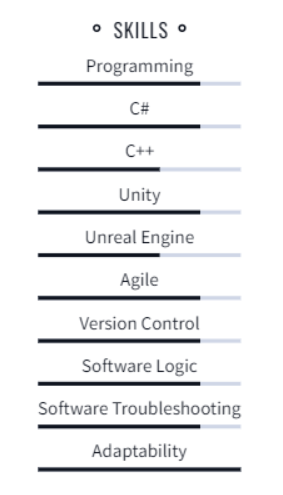
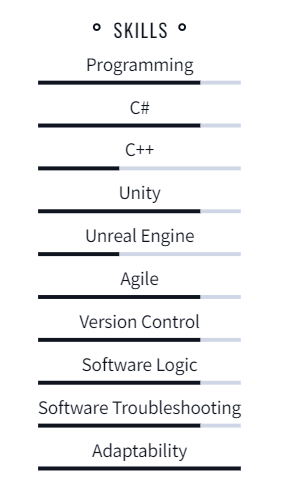
added learning unreal and C++ Page, updated skillset image
Updated skillset image to better recognise my skillset -> Lowered c++/Unreal scores to be more accurate

diff --git a/LearningUnrealAndC++.html b/LearningUnrealAndC++.html
@@ -18,7 +18,7 @@
 				<section id="header">
 
 					<!-- Logo -->
-						<h1><a href="index.html">Boids Simulated Ecosystem</a></h1>
+						<h1><a href="LearningUnrealAndC++.html">Learning Unreal Engine and C++</a></h1>
 
 					<!-- Nav -->
 				<nav id="nav">
@@ -59,22 +59,14 @@
 
 						<!-- Content -->
 							<article class="box post">
-								<a target="_blank" href="https://glideaway-games.itch.io/freeflight/" target="_blank" class="image featured"><img src="" alt="" /></a>
+								<a target="_blank" href="" target="_blank" class="image featured"><img src="" alt="" /></a>
 								<header>
-									<h2>Overview</h2>
+									<h2>Page Currently Under Development!</h2>
 								</header>
 								<p>
-									This project was my second year solo project, in which I decided to develop an ecosystem simulation that uses boid agents and behaviours. Boids 
-									is an artificial intelligence behaviour that simulates the flocking behaviour of birds. The agents behave how boids typically behave, however 
-									they have other behaviours worked into them, for example the need to eat, thirst, need to mate, and more. The main intent of this project was 
-									to see how well boid agents could work and function within an ecosystem, provided the behaviours had been added for them to do this.
+									I am currently learning how to better develop games using Unreal Engine 5 and c++. This page will show my progressions of learning these.
 								</p>
-								<p>
-									The assignment for this project was to develop any type of artificial intelligence we wanted, in which I chose to take the AI behaviour of boids
-									and add more complex behaviours to them. This meant creating numerous behaviour scripts, a main behaviour handler, and more, alongside ensuring to
-									improve the efficiency of the boid agents, since boids themselves can be very taxing on a computer's resources. My main priority was creating the 
-									behaviours so that the boids could reproduce, eat to survive, repopulate, and continue to thrive in a given environment. 
-								</p>
+
 								<section>
 									<header>
 										<h3>Example Systems + Scripts</h3>
@@ -83,104 +75,15 @@
 									<br />
 									<br />
 
-									<button type="button" class="collapsible">Main Flock Handler</button>
+									<button type="button" class="collapsible">Holder</button>
 									<div class="content">
 										<p>
-											The main script, Flock.cs, handled spawning in new flock agents and triggering the move in all boids in the flock.											
+											Holding.									
 										</p>
-										<p>
-											SpawnNewAgent is a method in which instantiates a new boid agent, ensuring its attributes and behaviours and set correctly.
-											It begins by instantiating a new agent using the agent prefab randomly within a sphere, making sure the agent knows which flock it belongs to.
-											The agent's attributes are then set using mother and father attribute sets. This is followed by adding this agent to the agents list so we can
-											continue to monitor and update it. 
-										</p>
-										<img src="images/BoidSimulationScripts/SpawnBoid.PNG" alt="" />
-
-										<p>
-											The UpdateFlock method is responsible for updating the move of every agent in the agents list, ensuring this move is kept within the max speed 
-											constraints. To calulate this move, the boid agents get all objects within a given radius and react to them in different ways depending on
-											their different behaviours and their weights.
-										</p>
-										<img src="images/BoidSimulationScripts/UpdateFlock.PNG" alt="" />
 
 									</div>
 									<br />
 									<br />
-
-									<button type="button" class="collapsible">Original Boid Behaviours</button>
-									<div class="content">
-										<p>
-											Here are the original behaviours that typical boid agents possess. This includes: allignment, cohesion, avoidance, and a composite behaviour 
-											to combine these different behaviours into one.
-										</p>
-										<p>
-											Below is the composite behaviour. This takes a boid agent and loops through each behaviour in a given behaviour list and calculates a move 
-											direction based on these and their weights, ensuring to return the move direction to where it was called. 
-										</p>
-										<img src="images/BoidSimulationScripts/CompositeBehaviour.PNG" alt="" />
-
-										<p>
-											Below is the allignment behaviour. This behaviour makes a given agent allign towards the average direction of all nearby agents, ignoring 
-											all other objects that aren't boid agents. This alignment move is then returned to where it was called.
-										</p>
-
-										<img src="images/BoidSimulationScripts/AllignmentBehaviour.PNG" alt="" />
-
-										<p>
-											Below is the cohesion behaviour. This behaviour is responsible for making the boids steer towards all nearby boids, ignoring objects that
-											aren't boid agents. The behaviour calculates the average move position of all nearby agents, returning this cohesion move value.
-										</p>
-
-										<img src="images/BoidSimulationScripts/CohesionBehaviour.PNG" alt="" />
-
-										<p>
-											Below is the avoidance behaviour. This behaviour makes it so the agent moves away from all nearby objects when getting too close. It gets 
-											the nearby object context list and gets the average direction away from all of these objects to avoid them, returning this avoidance 
-											movement to where it was called.
-										</p>
-
-										<img src="images/BoidSimulationScripts/AvoidanceBehaviour.PNG" alt="" />
-
-										<p>
-											This concludes the original boid behaviours and how I have implemented them into my own agents.
-										</p>
-									</div>
-									<br />
-									<br />
-
-									<button type="button" class="collapsible">New Boid Behaviours</button>
-									<div class="content">
-										<p>
-											To create a environmental simulation for the boids, I had to ensure I was simulating the need for a food source, the need to mate, and other
-											natural needs and requirements.
-										</p>
-										<h5>Find Food Behaviour</h5>
-										<p>
-											Below is the behaviour responsible for finding food and returning the direction towards it. Firstly, it gets the nearest food source through
-											calling the method GetNearestFoodSource, which is a simple method which calculates which food source within view distance is closest to this 
-											agent, following this by returning the direction towards this food source or returning no direction due to no nearby food sources. This behaviour
-											was vital in this system since without food the agents would just die out due to hunger. 
-										</p>
-										<img src="images/BoidSimulationScripts/FindFoodBehaviour.PNG" alt="" />
-
-										<h5>Find Mate Behaviour</h5>
-										<p>
-											Below is the first half of the find mate behaviour. This behaviour is responsible for finding the nearest best mate and attempting to mate with
-											them, returning the direction towards them if too far. Firstly, the agent gets the context list and searches for the mate with the highest
-											attractiveness attribute. This was a vital part in the system, since they should prefer mates with better attributes and higher chances to live
-											than those that are more likely to die quickly. In this first half, we get this best mate and keep them as context. 
-										</p>
-										<img src="images/BoidSimulationScripts/FindMateBehaviour.PNG" alt="" />
-										<p>
-											In the second half, the script first checks whether the agent is close enough to attempt to mate with the other agent. Then it runs through a random
-											number generator to see if the mating was successful or not, in which if it was, a new agent will be spawned with these two agents as the parents and 
-											their need to mate weight is reset, otherwise their need to mate would be lowered by a multiplier. And finally, the direction towards this best mate 
-											would be returned the where this was called.
-										</p>
-										<img src="images/BoidSimulationScripts/GoToMateBehaviour.PNG" alt="" />
-
-									</div>
-
 								</section>
 
 								<section>
@@ -188,9 +91,7 @@
 										<h3>What I learnt from this project</h3>
 									</header>
 									<p>
-										This project and module helped me develop my understanding of the different ways artificial intelligence can be created for different jobs, and the industry-standard
-										practices for implementing different AI behaviours and features. From my work specifically, I learnt how to take a basic AI and implement new, more complex, 
-										behaviours, whilst also ensuring the system makes sense and is efficient enough to run effectively as possible. 
+										
 									</p>
 								</section>
 

diff --git a/Skillset.html b/Skillset.html
@@ -31,6 +31,7 @@
 								<li><a href="BoidsSimulatedEcosystem.html">Boids Simulated Ecosystem</a></li>
 								<li><a href="ProjectStealth.html">Project Stealth</a></li>
 								<li><a href="CustomController.html">Custom Controller Fishing Game</a></li>
+								<li><a href="LearningUnrealAndC++.html">Learning Unreal Engine and C++</a></li>
 								<!-- 
 								<li><a href="PracticeProjects">Practice Projects</a>
 									<ul>
@@ -46,7 +47,7 @@
 						</li>
 						<li class="current"><a href="Skillset.html">My Skillset</a></li>
 						<li><a href="EducationAndAccomplishments.html">Education and Accomplishments</a></li>
-						<li><a href="HobbiesAndInterests.html">Hobbies and Interests</a></li>
+						<!--<li><a href="HobbiesAndInterests.html">Hobbies and Interests</a></li>-->
 						<li><a href="CV.html">CV</a></li>
 					</ul>
 				</nav>

diff --git a/CV.html b/CV.html
@@ -28,6 +28,7 @@
 								<li><a href="BoidsSimulatedEcosystem.html">Boids Simulated Ecosystem</a></li>
 								<li><a href="ProjectStealth.html">Project Stealth</a></li>
 								<li><a href="CustomController.html">Custom Controller Fishing Game</a></li>
+								<li><a href="LearningUnrealAndC++.html">Learning Unreal Engine and C++</a></li>
 						<!--
 							<li><a href="PracticeProjects">Practice Projects</a>
 							<ul>
@@ -42,9 +43,7 @@
 							</ul>
 						</li>
 						<li><a href="EducationAndAccomplishments.html">Education and Accomplishments</a></li>
-						<!--
-						<li><a href="HobbiesAndInterests.html">Hobbies and Interests</a></li>
-							-->
+						<!--<li><a href="HobbiesAndInterests.html">Hobbies and Interests</a></li>-->
 						<li class="current"><a href="CV.html">CV</a></li>
 					</ul>
 				</nav>

diff --git a/HobbiesAndInterests.html b/HobbiesAndInterests.html
@@ -31,6 +31,7 @@
 								<li><a href="BoidsSimulatedEcosystem.html">Boids Simulated Ecosystem</a></li>
 								<li><a href="ProjectStealth.html">Project Stealth</a></li>
 								<li><a href="CustomController.html">Custom Controller Fishing Game</a></li>
+								<li><a href="LearningUnrealAndC++.html">Learning Unreal Engine and C++</a></li>
 								<!-- 
 								<li><a href="PracticeProjects">Practice Projects</a>
 									<ul>
@@ -45,7 +46,7 @@
 							</ul>
 						</li>
 						<li><a href="EducationAndAccomplishments.html">Education and Accomplishments</a></li>
-						<li class="current"><a href="HobbiesAndInterests.html">Hobbies and Interests</a></li>
+						<!--<li class="current"><a href="HobbiesAndInterests.html">Hobbies and Interests</a></li>-->
 						<li><a href="CV.html">CV</a></li>
 					</ul>
 				</nav>

diff --git a/ProjectStealth.html b/ProjectStealth.html
@@ -31,6 +31,7 @@
 								<li><a href="BoidsSimulatedEcosystem.html">Boids Simulated Ecosystem</a></li>
 								<li><a href="ProjectStealth.html">Project Stealth</a></li>
 								<li><a href="CustomController.html">Custom Controller Fishing Game</a></li>
+								<li><a href="LearningUnrealAndC++.html">Learning Unreal Engine and C++</a></li>
 								<!-- 
 								<li><a href="PracticeProjects">Practice Projects</a>
 									<ul>
@@ -45,9 +46,7 @@
 							</ul>
 						</li>
 						<li><a href="EducationAndAccomplishments.html">Education and Accomplishments</a></li>
-						<!--
-						<li><a href="HobbiesAndInterests.html">Hobbies and Interests</a></li>
-							-->
+						<!--<li><a href="HobbiesAndInterests.html">Hobbies and Interests</a></li> -->
 						<li><a href="CV.html">CV</a></li>
 					</ul>
 				</nav>

diff --git a/CustomController.html b/CustomController.html
@@ -31,6 +31,7 @@
 								<li><a href="BoidsSimulatedEcosystem.html">Boids Simulated Ecosystem</a></li>
 								<li><a href="ProjectStealth.html">Project Stealth</a></li>
 								<li><a href="CustomController.html">Custom Controller Fishing Game</a></li>
+								<li><a href="LearningUnrealAndC++.html">Learning Unreal Engine and C++</a></li>
 								<!-- 
 								<li><a href="PracticeProjects">Practice Projects</a>
 									<ul>
@@ -45,9 +46,7 @@
 							</ul>
 						</li>
 						<li><a href="EducationAndAccomplishments.html">Education and Accomplishments</a></li>
-						<!--
-						<li><a href="HobbiesAndInterests.html">Hobbies and Interests</a></li>
-							-->
+						<!--<li><a href="HobbiesAndInterests.html">Hobbies and Interests</a></li>-->
 						<li><a href="CV.html">CV</a></li>
 					</ul>
 				</nav>

diff --git a/Freeflight.html b/Freeflight.html
@@ -31,6 +31,7 @@
 								<li><a href="BoidsSimulatedEcosystem.html">Boids Simulated Ecosystem</a></li>
 								<li><a href="ProjectStealth.html">Project Stealth</a></li>
 								<li><a href="CustomController.html">Custom Controller Fishing Game</a></li>
+								<li><a href="LearningUnrealAndC++.html">Learning Unreal Engine and C++</a></li>
 								<!-- 
 								<li><a href="PracticeProjects">Practice Projects</a>
 									<ul>
@@ -45,7 +46,7 @@
 							</ul>
 						</li>
 						<li><a href="EducationAndAccomplishments.html">Education and Accomplishments</a></li>
-						<!---<li><a href="HobbiesAndInterests.html">Hobbies and Interests</a></li>-->
+						<!--<li><a href="HobbiesAndInterests.html">Hobbies and Interests</a></li>-->
 						<li><a href="CV.html">CV</a></li>
 					</ul>
 				</nav>

diff --git a/EducationAndAccomplishments.html b/EducationAndAccomplishments.html
@@ -31,6 +31,7 @@
 								<li><a href="BoidsSimulatedEcosystem.html">Boids Simulated Ecosystem</a></li>
 								<li><a href="ProjectStealth.html">Project Stealth</a></li>
 								<li><a href="CustomController.html">Custom Controller Fishing Game</a></li>
+								<li><a href="LearningUnrealAndC++.html">Learning Unreal Engine and C++</a></li>
 								<!--
 						<li><a href="PracticeProjects">Practice Projects</a>
 							<ul>

diff --git a/index.html b/index.html
@@ -30,6 +30,7 @@
 								<li><a href="BoidsSimulatedEcosystem.html">Boids Simulated Ecosystem</a></li>
 								<li><a href="ProjectStealth.html">Project Stealth</a></li>
 								<li><a href="CustomController.html">Custom Controller Fishing Game</a></li>
+								<li><a href="LearningUnrealAndC++.html">Learning Unreal Engine and C++</a></li>
 							</ul>
 						<!--
 							<li><a href="PracticeProjects">Practice Projects</a>
